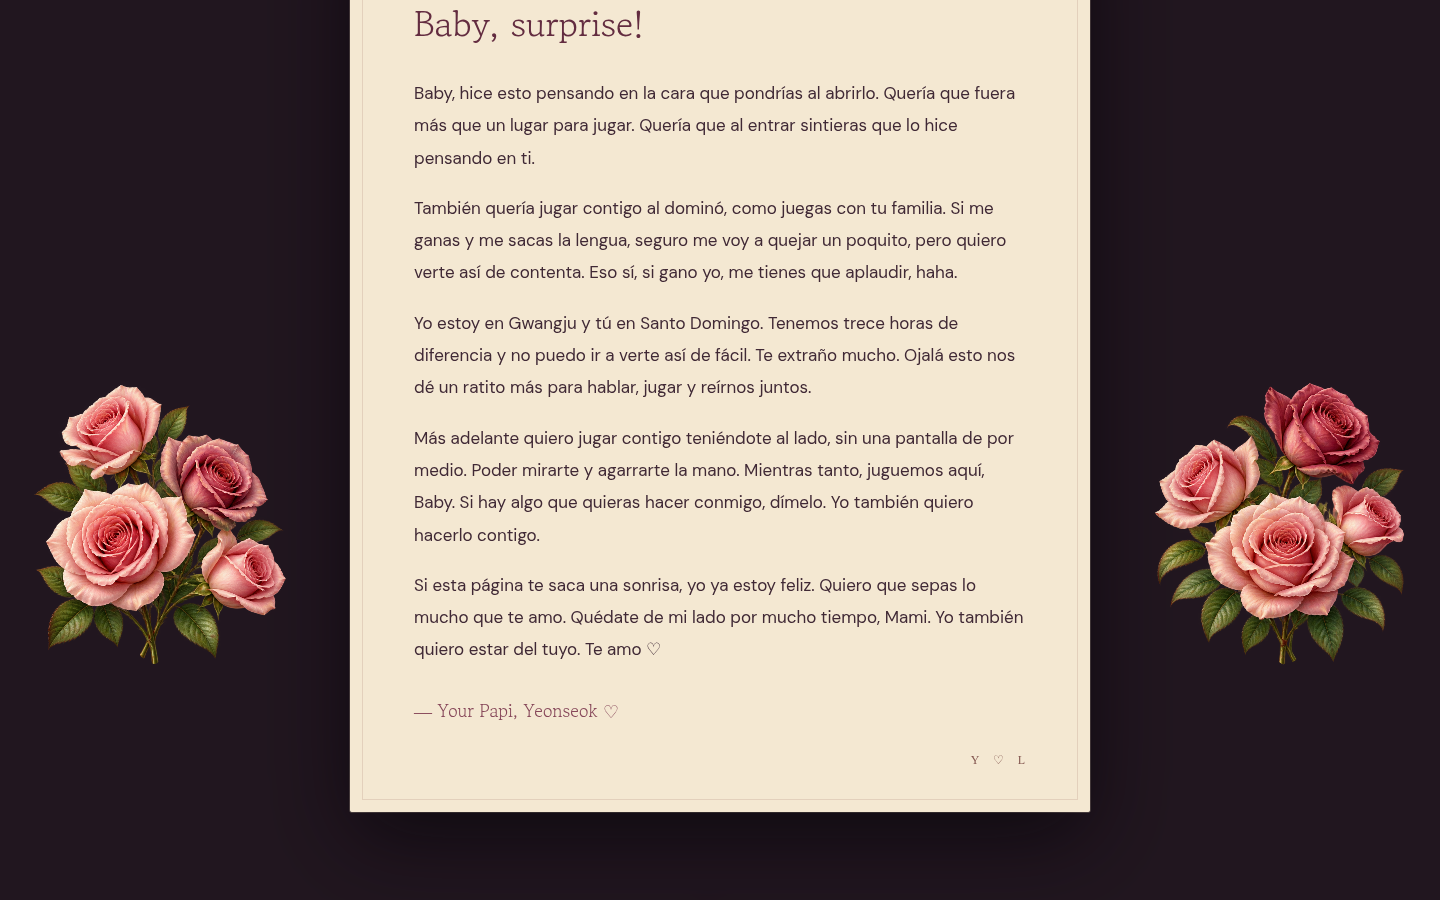
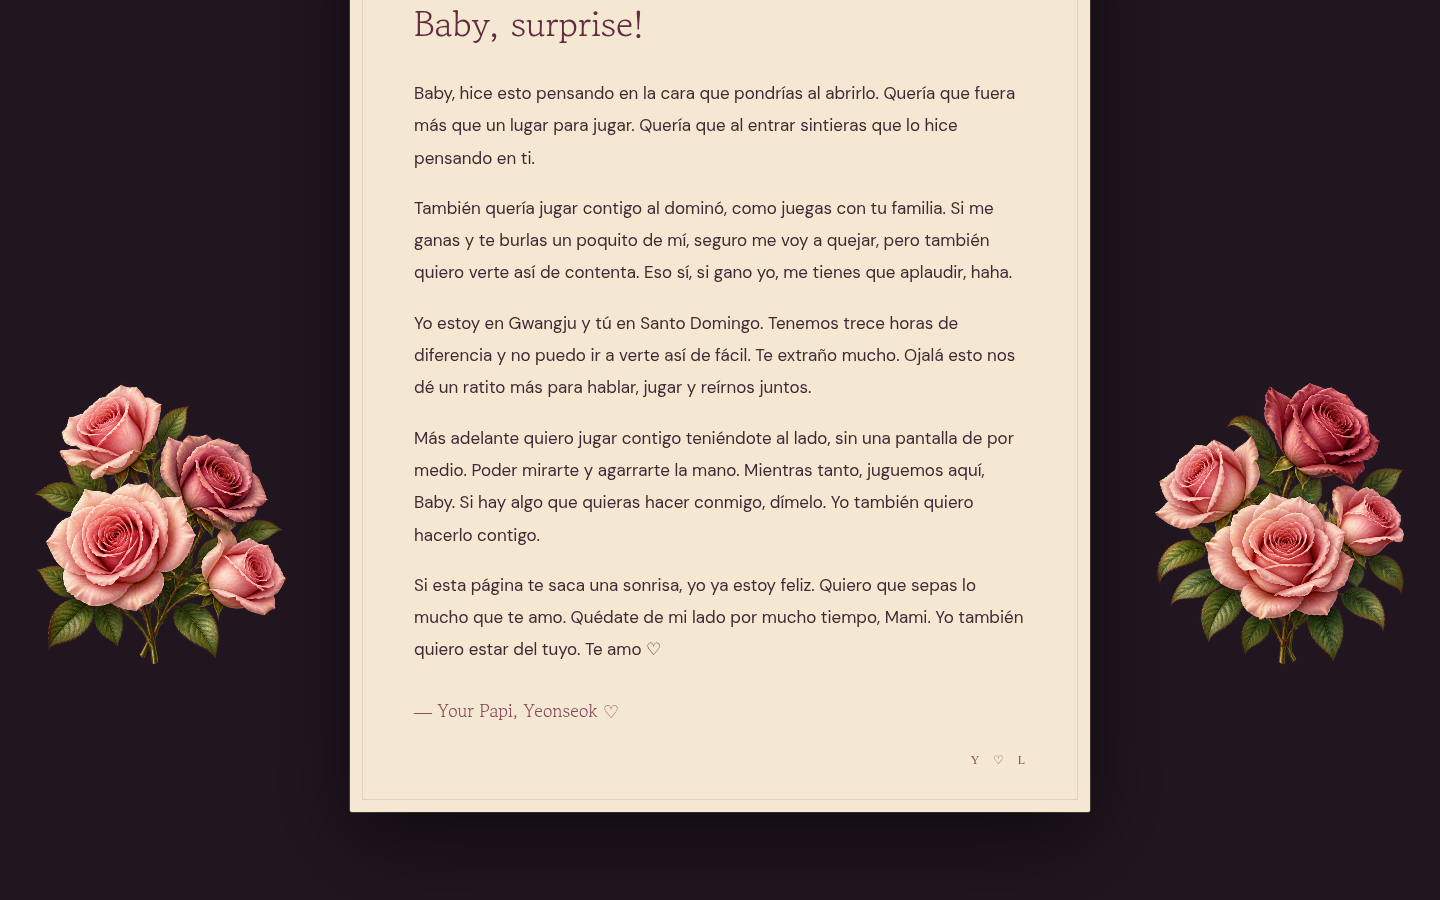
Make letter teasing playful instead of describing a tongue-out pose

Changed region(s): [[0.2812, 0.2489, 0.6875, 0.3111]]

diff --git a/src/copy/home.ts b/src/copy/home.ts
@@ -30,7 +30,7 @@ export const landingCopy = {
     letterTitle: 'Baby, surprise!',
     letterBody: [
       'Baby, 이거 열어보고 어떤 표정을 지을까 생각하면서 만들었어. 그냥 게임만 할 수 있는 곳 말고, 들어오면 내가 너 생각하면서 만들었다는 게 느껴졌으면 좋겠어.',
-      '네가 가족들이랑 하는 도미노도 나랑 같이 해보고 싶었어. 네가 이기고 메롱하면 조금 억울하겠지만, 그래도 네가 신나하는 얼굴은 보고 싶거든. 대신 내가 이기면 박수 쳐줘야 해 ㅋㅋㅋ',
+      '네가 가족들이랑 하는 도미노도 나랑 같이 해보고 싶었어. 네가 이겼다고 나 놀리면 좀 억울하겠지만, 네가 신나하는 얼굴은 보고 싶거든. 대신 내가 이기면 박수 쳐줘야 해 ㅋㅋㅋ',
       '나는 광주에 있고 너는 산토도밍고에 있잖아. 13시간이나 차이 나고 바로 옆에 갈 수도 없어서 많이 보고 싶어. 이렇게라도 너랑 얘기하고 같이 웃을 시간이 조금 더 생겼으면 좋겠어.',
       '나중에는 화면 말고 바로 옆에서 같이 놀고 싶어. 게임하다가 네 얼굴도 보고, 손도 잡고. 그때까지는 여기서 한 판씩 하자, Baby. 하고 싶은 게 있으면 말해줘. 같이 해보고 싶어.',
       '이 페이지 보고 네가 한 번 웃어주면 좋겠다. 그리고 내가 너 많이 좋아하고, 많이 사랑한다는 것도 알아줬으면 좋겠어. 오래오래 내 편 해줘, Mami. 나도 네 편일게. 사랑해 ♡',
@@ -71,7 +71,7 @@ export const landingCopy = {
     letterTitle: 'Baby, surprise!',
     letterBody: [
       'Baby, hice esto pensando en la cara que pondrías al abrirlo. Quería que fuera más que un lugar para jugar. Quería que al entrar sintieras que lo hice pensando en ti.',
-      'También quería jugar contigo al dominó, como juegas con tu familia. Si me ganas y me sacas la lengua, seguro me voy a quejar un poquito, pero quiero verte así de contenta. Eso sí, si gano yo, me tienes que aplaudir, haha.',
+      'También quería jugar contigo al dominó, como juegas con tu familia. Si me ganas y te burlas un poquito de mí, seguro me voy a quejar, pero también quiero verte así de contenta. Eso sí, si gano yo, me tienes que aplaudir, haha.',
       'Yo estoy en Gwangju y tú en Santo Domingo. Tenemos trece horas de diferencia y no puedo ir a verte así de fácil. Te extraño mucho. Ojalá esto nos dé un ratito más para hablar, jugar y reírnos juntos.',
       'Más adelante quiero jugar contigo teniéndote al lado, sin una pantalla de por medio. Poder mirarte y agarrarte la mano. Mientras tanto, juguemos aquí, Baby. Si hay algo que quieras hacer conmigo, dímelo. Yo también quiero hacerlo contigo.',
       'Si esta página te saca una sonrisa, yo ya estoy feliz. Quiero que sepas lo mucho que te amo. Quédate de mi lado por mucho tiempo, Mami. Yo también quiero estar del tuyo. Te amo ♡',

diff --git a/docs/redesign-20261018/PROCESS-FAILURE-AUDIT-20261021.ko.md b/docs/redesign-20261018/PROCESS-FAILURE-AUDIT-20261021.ko.md
@@ -113,3 +113,5 @@ Method: dual-agent (A: /root/story_critique_a · B: /root/story_critique_b)
 남는 범위: Landing의 3D/모션 묶음은 여전히 약1MB이고 Vite chunk 경고가 있다. 이번 작업으로 전체 기술부채가 사라졌다고 선언하지 않는다. 소프트웨어 렌더링 검수이며 physical GPU·모바일·온라인 backend 검수는 하지 않았다. 기존 57.8초 영상은 edb3589의 이전 문구 checkpoint로 남아 있고 이번 문구/새 설명의 증거는 아래 최신 정지 캡처다.
 
 [한국어 편지](../review/letter-current-ko.png) · [스페인어 편지](../review/letter-current-es.png) · [새 설명](../review/companions-pact-1440-es-birds-apart.png)
+
+사용자 후속 말투 지시에 따라 편지의 혀 내미는 묘사를 ‘이겼다고 나 놀리면’으로 바꿨다. ES도 `me sacas la lengua` 대신 승리 후 장난스럽게 놀리는 표현으로 맞췄다. 승부 일러스트의 승인된 표정 자산은 변경하지 않았다.
